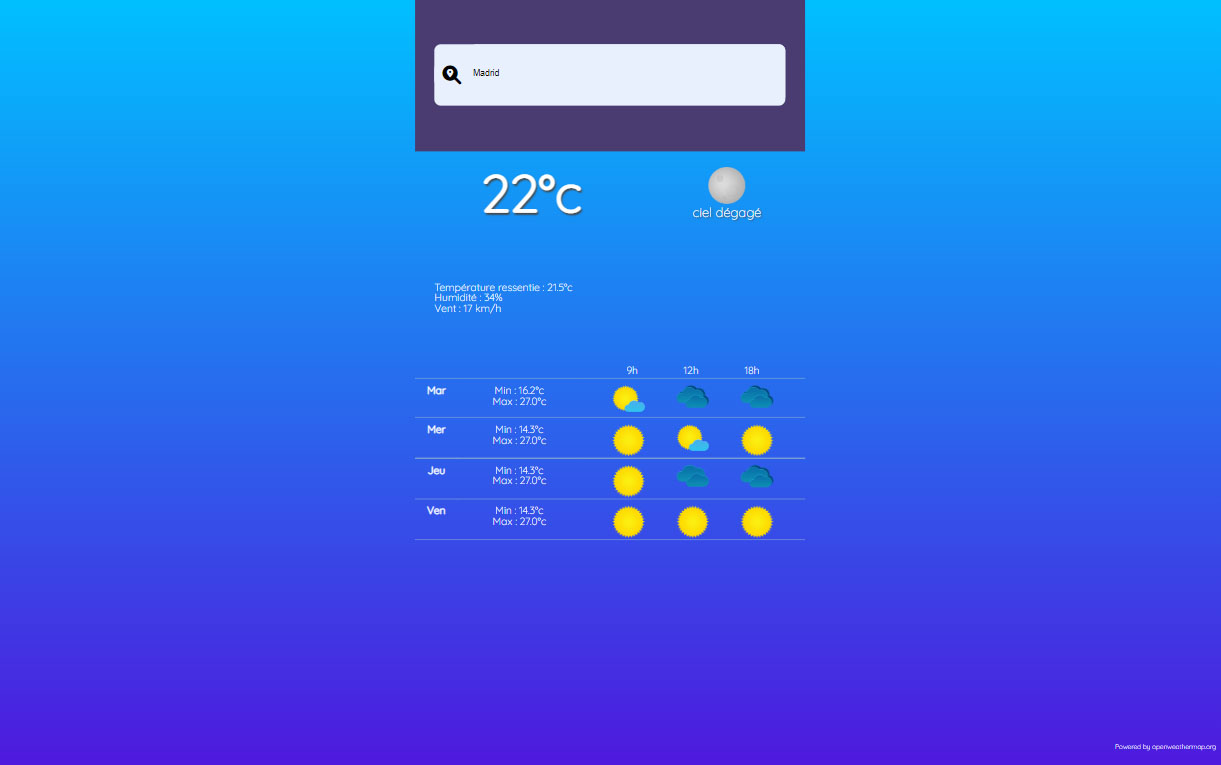
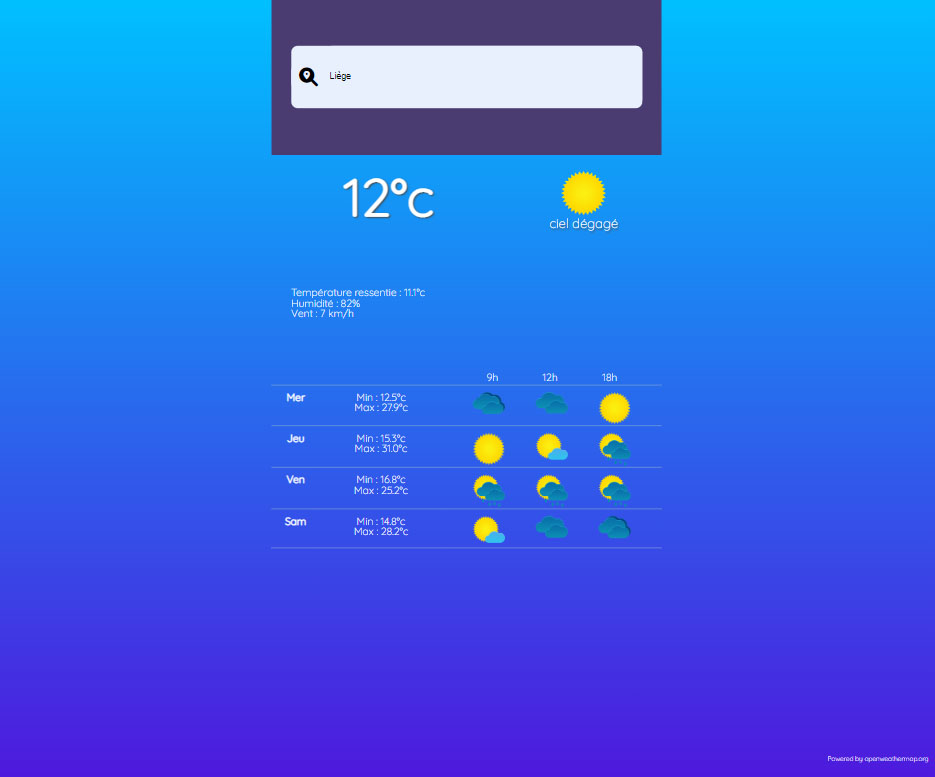
Update

diff --git a/script.js b/script.js
@@ -114,11 +114,11 @@ async function openWeather() {
         if(time >= msTomorrow && time < dayAfter){
             //Récupérer les icônes
             icones.push(element.weather[0].icon);
-            //Récupérer de la température maximale      
+            //Récupérer la température maximale      
             if(element.main.temp_max > tempMax){
             tempMax = element.main.temp_max;
             }
-            //Récupérer de la température minimale      
+            //Récupérer la température minimale      
             if(element.main.temp_min < tempMin){
             tempMin = element.main.temp_min;
             }
@@ -135,17 +135,19 @@ async function openWeather() {
 
 
     //Prévision jour 2/////////////////////////////////
+    tempMax = -100;
+    tempMin = 100;
     icones = [];
     forecastArray.forEach((element, index) => {
         let time = element.dt*1000;
         if(time >= (msTomorrow+msDay) && time < (dayAfter+msDay)){
             //Récupérer les icônes
             icones.push(element.weather[0].icon);
-            //Récupérer de la température maximale      
+            //Récupérer la température maximale      
             if(element.main.temp_max > tempMax){
             tempMax = element.main.temp_max;
             }
-            //Récupérer de la température minimale      
+            //Récupérer la température minimale      
             if(element.main.temp_min < tempMin){
             tempMin = element.main.temp_min;
             }
@@ -160,17 +162,19 @@ async function openWeather() {
     <span id="ico"><img src="src/img/${icones[6]}.png" alt=""></span>`;
 
     //Prévision jour 3/////////////////////////////////
+    tempMax = -100;
+    tempMin = 100;
     icones = [];
     forecastArray.forEach((element, index) => {
         let time = element.dt*1000;
         if(time >= (msTomorrow+(msDay*2)) && time < (dayAfter+(msDay*2))){
             //Récupérer les icônes
             icones.push(element.weather[0].icon);
-            //Récupérer de la température maximale      
+            //Récupérer la température maximale      
             if(element.main.temp_max > tempMax){
             tempMax = element.main.temp_max;
             }
-            //Récupérer de la température minimale      
+            //Récupérer la température minimale      
             if(element.main.temp_min < tempMin){
             tempMin = element.main.temp_min;
             }
@@ -185,22 +189,25 @@ async function openWeather() {
     <span id="ico"><img src="src/img/${icones[6]}.png" alt=""></span>`;
 
     //Prévision jour 4/////////////////////////////////
+    tempMax = -100;
+    tempMin = 100;
     icones = [];
     forecastArray.forEach((element, index) => {
         let time = element.dt*1000;
         if(time >= (msTomorrow+(msDay*3)) && time < (dayAfter+(msDay*3))){
             //Récupérer les icônes
             icones.push(element.weather[0].icon);
-            //Récupérer de la température maximale      
+            //Récupérer la température maximale      
             if(element.main.temp_max > tempMax){
             tempMax = element.main.temp_max;
             }
-            //Récupérer de la température minimale      
+            //Récupérer la température minimale      
             if(element.main.temp_min < tempMin){
             tempMin = element.main.temp_min;
             }
         }   
     });
+   
     let day4Display = document.querySelector("#minmax4");
     day4Display.innerHTML = `<span id="min">Min : ${tempMin.toFixed(1)}°c</span> <br>
     <span id="max">Max : ${tempMax.toFixed(1)}°c</span>`;
@@ -209,9 +216,6 @@ async function openWeather() {
     <span id="ico"><img src="src/img/${icones[4]}.png" alt=""></span> 
     <span id="ico"><img src="src/img/${icones[6]}.png" alt=""></span>`;
     ///////////////////////////////////////////////////////////////////////
-
-
-
 }
 
 

diff --git a/README.md b/README.md
@@ -14,39 +14,23 @@ A faire :
 
 ## Rendu
 - Page d'accueil :
+
+
 ![Smartphone picture](src/img/smart.jpg)
 ![tablet picture](src/img/tab.jpg)
-![screen picture](src/img/screent.jpg)
+![screen picture](src/img/screen.jpg)
 
 - Détail :
-![Smartphone picture](src/img/smart_01.jpg)
-![tablet picture](src/img/tab_01.jpg)
-![screen picture](src/img/screent_01.jpg)
+
+
+![Smartphone picture](src/img/smart_1.jpg)
+![tablet picture](src/img/tab_1.jpg)
+![screen picture](src/img/screen_1.jpg)
 
 
 
 
-## Com preview
-tes
-> **Note:** The **Synchronize now** button is disabled if you have no file to synchronize.
+## A faire :
 
-# Publication
-
-Publishing in StackEdit makes it simple for you to publish online your files. Once you're happy with a file, you can publish it to different hosting platforms like **Blogger**, **Dropbox**, **Gist**, **GitHub**, **Google Drive**, **WordPress** and **Zendesk**. With [Handlebars templates](http://handlebarsjs.com/), you have full control over what you export.
-
-> Before starting to publish, you must link an account in the **Publish** sub-menu.
-
-
-
-## SmartyPants
-
-SmartyPants converts ASCII punctuation characters into "smart" typographic punctuation HTML entities. For example:
-
-|                |ASCII                          |HTML                         |
-|----------------|-------------------------------|-----------------------------|
-|Single backticks|`'Isn't this fun?'`            |'Isn't this fun?'            |
-|Quotes          |`"Isn't this fun?"`            |"Isn't this fun?"            |
-|Dashes          |`-- is en-dash, --- is em-dash`|-- is en-dash, --- is em-dash|
-
-
-
+- Gérer les fuseaux horaires
+  - Bloquant : heure d'été/hiver (voir "Timezone")
